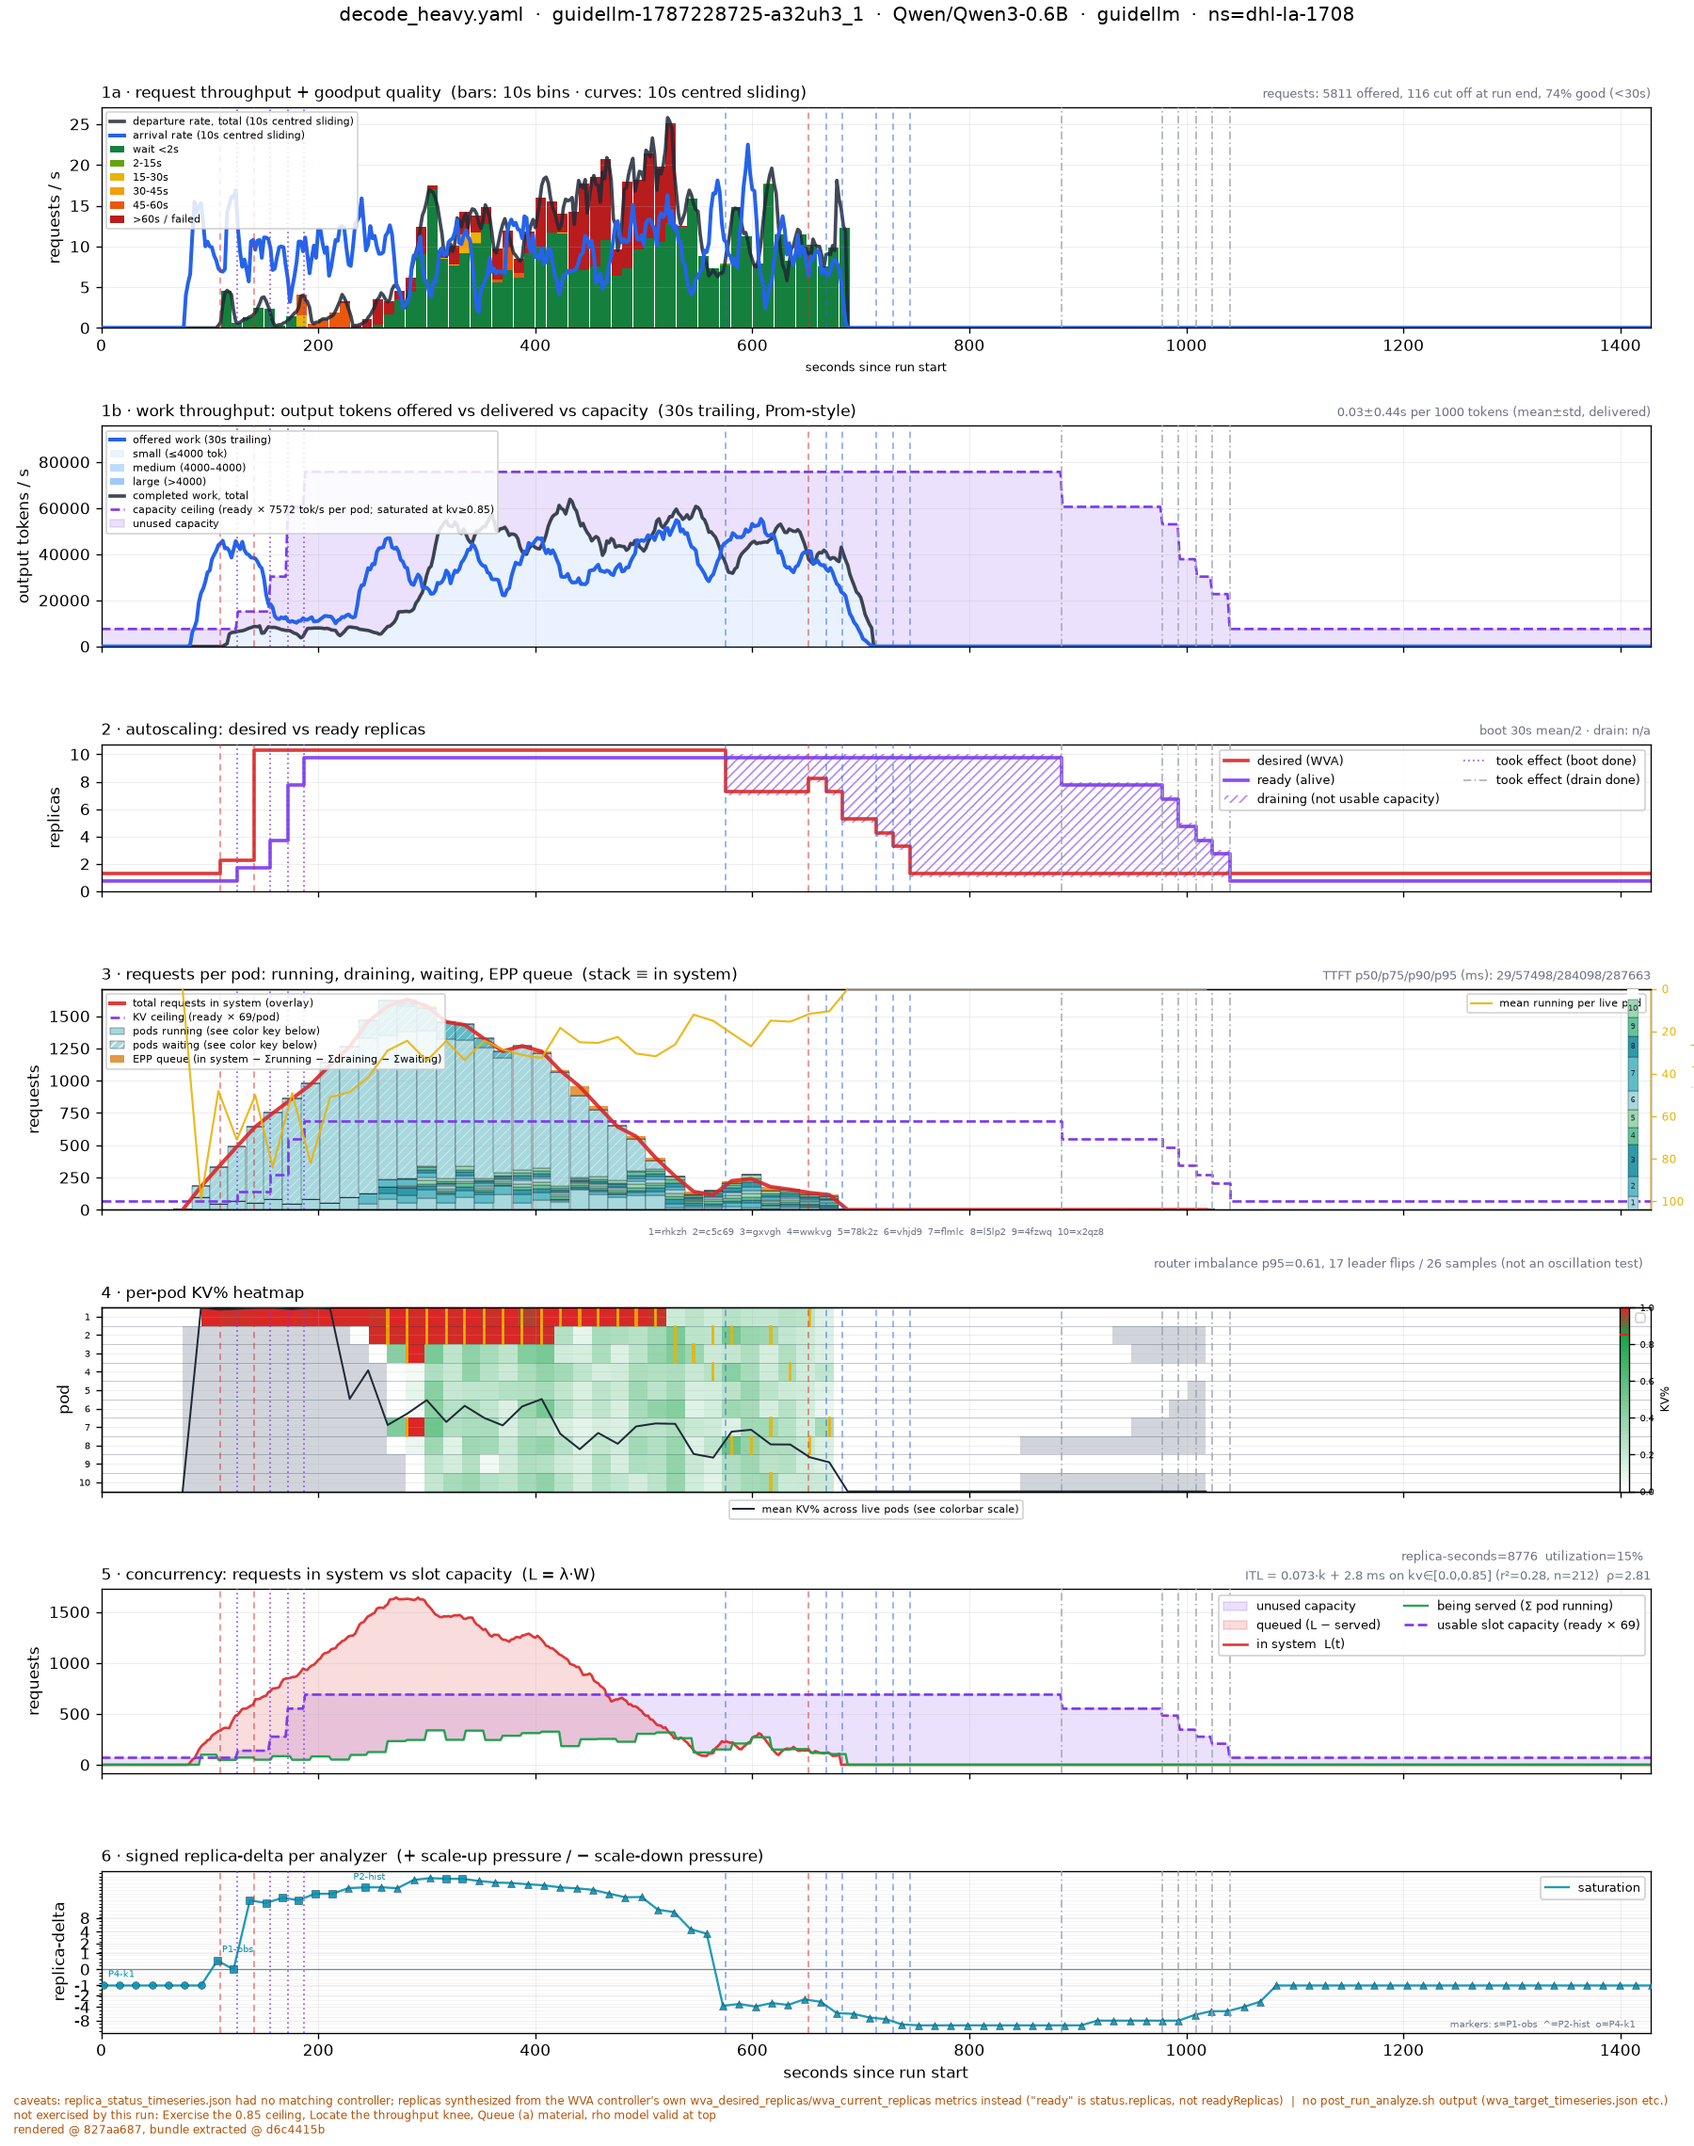
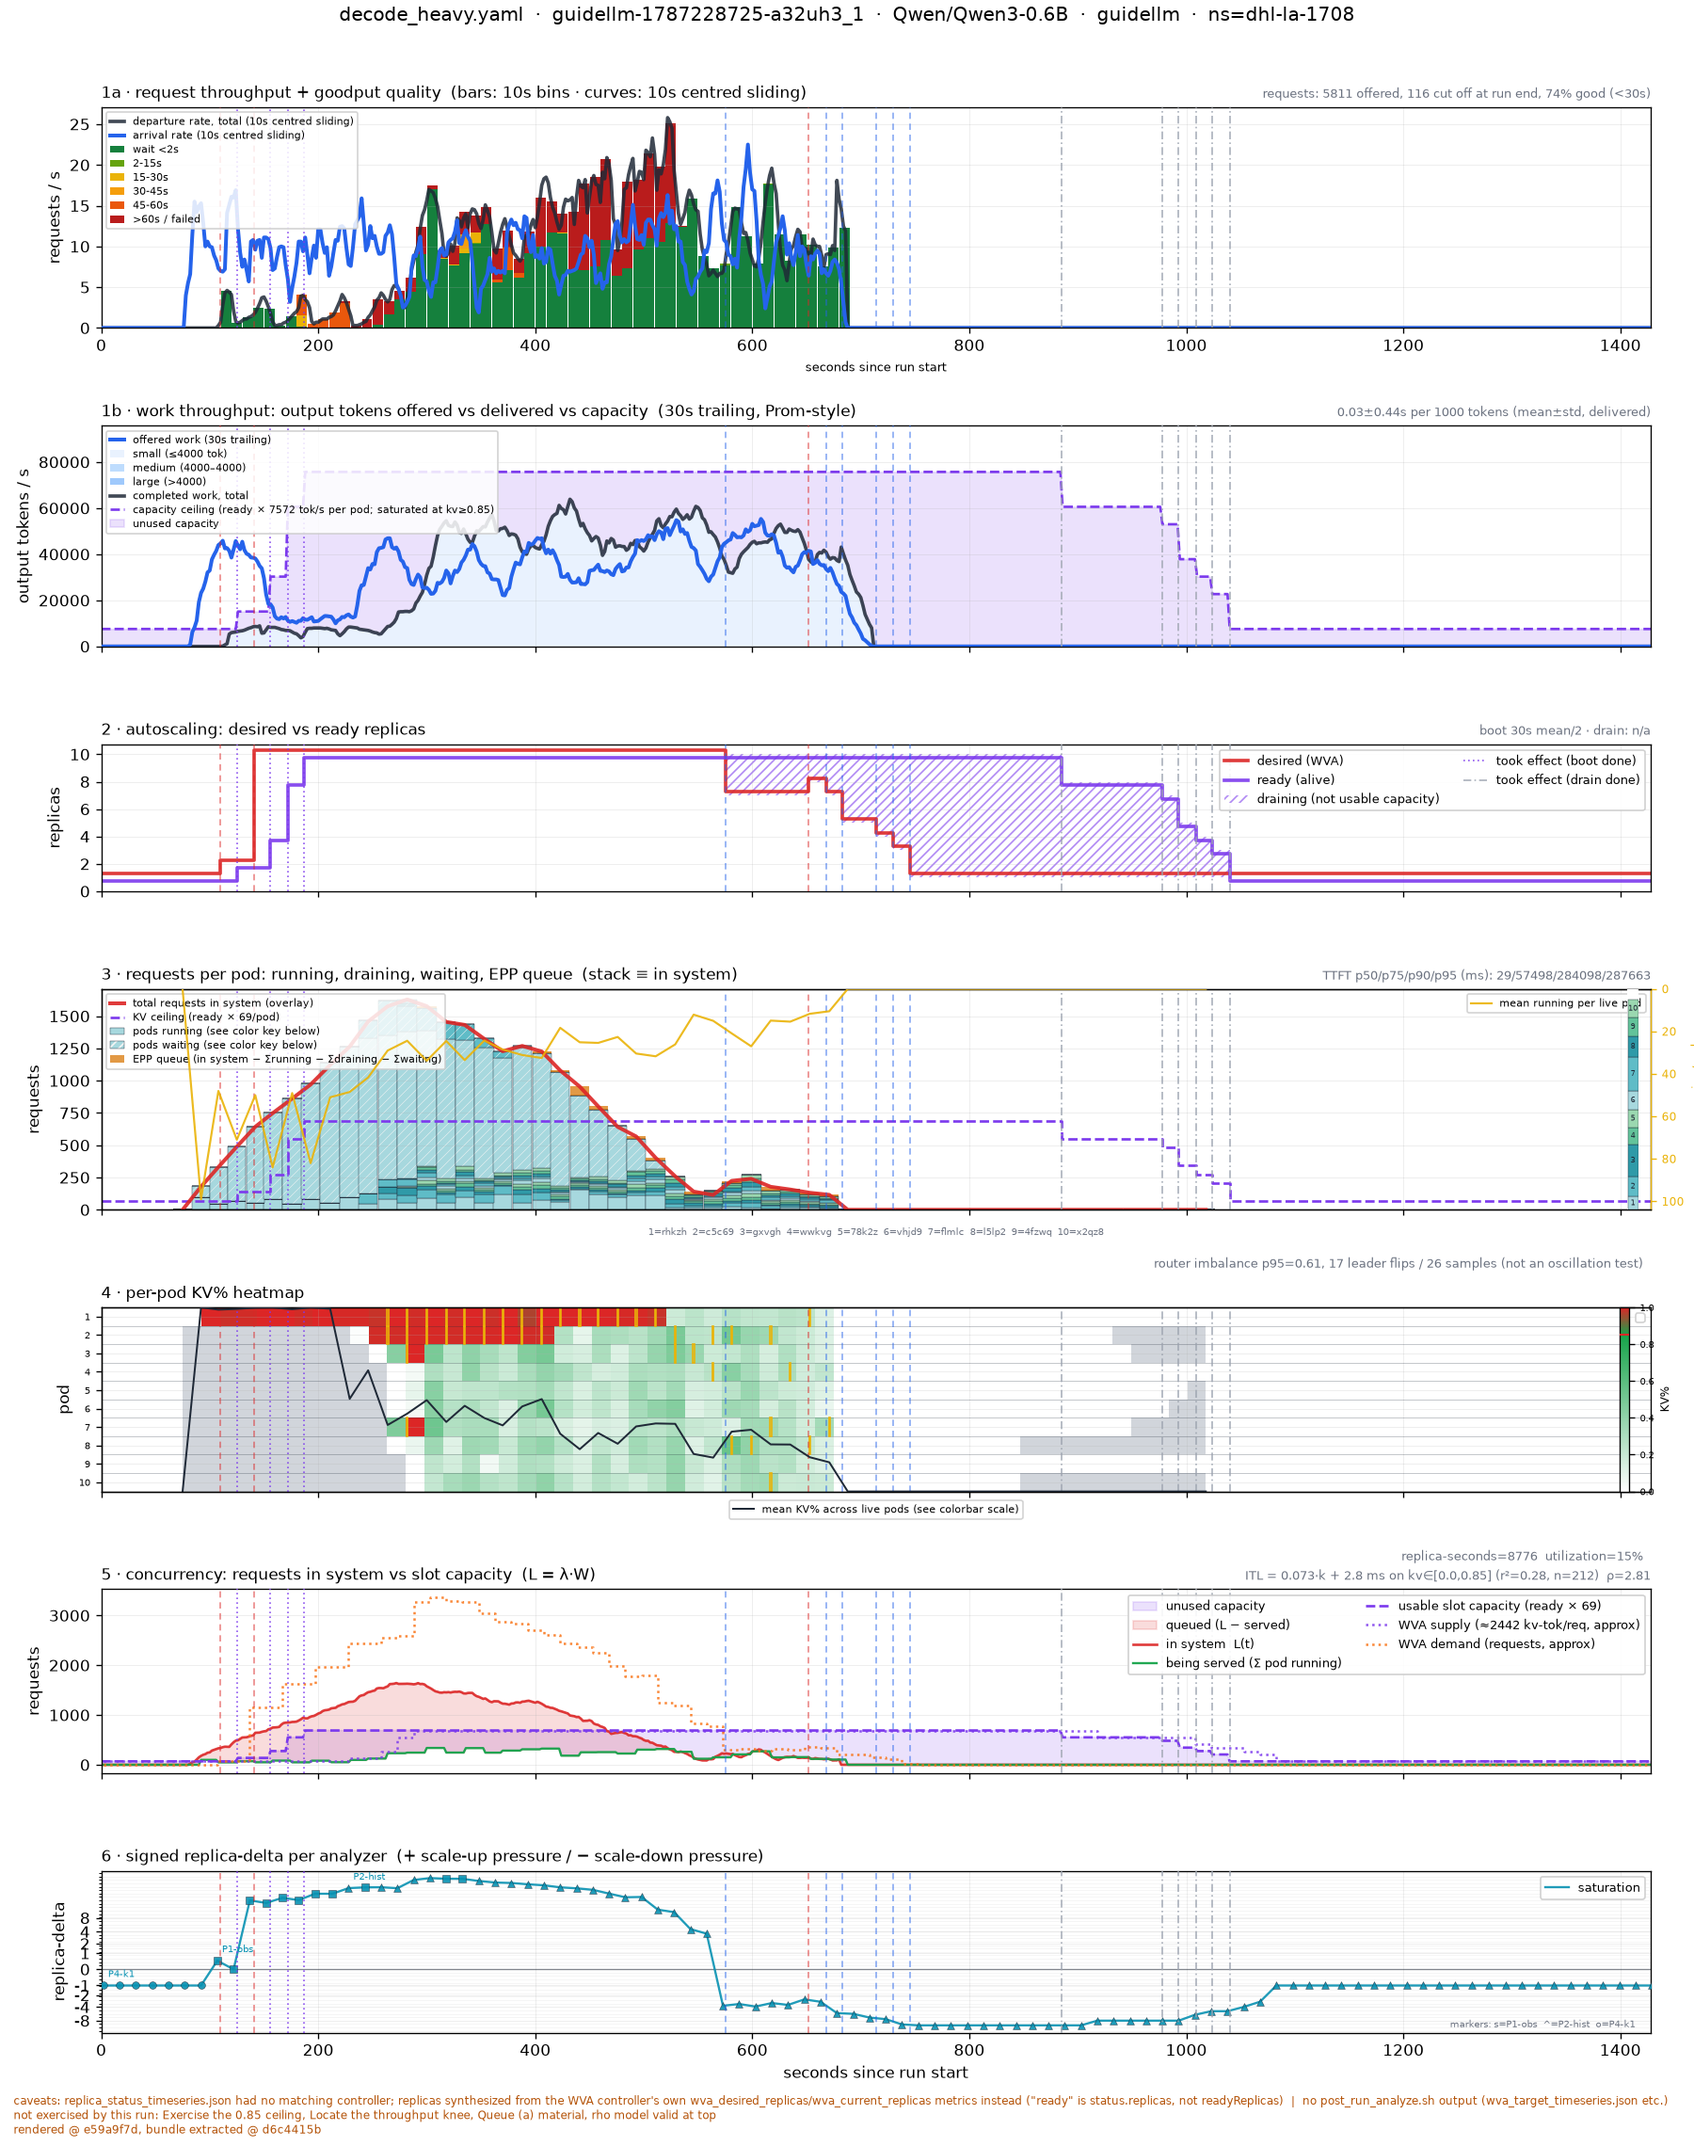
feat(benchmark): panel 5 WVA supply/demand, expressed as requests
supply/demand live in KV-cache-token units (saturation_v2/analyzer.go:
kvUsageDemand = KvCacheUsage * EffectiveCapacity), the same scale as
prc already carried on each analyzer-result record -- not tokens/sec,
not a request count on their own. No fixed tokens-per-request constant
exists to convert one to the other (it depends on each request's own
prompt+generation length), so the divisor is this run's own mean
KV-tokens actually held per running request, measured directly from
real pod samples: (kv_fraction x prc) / running_count at every sample
where a request was running. Labelled as an approximation in its own
legend entry, not presented as exact.

Validates against two independent references: on both runs checked,
"WVA supply" tracks "usable slot capacity" closely (both represent
ready-replica capacity, computed two different ways) -- and on
decode_heavy, "WVA demand" peaking above in_system's own peak (~3400
vs ~1600) lines up with the real 1->10 scale-up that run's ScaledObject
went through.

Re-published both results with the new signal.

Changed region(s): [[0.0622, 0.7474, 0.9644, 0.8408], [0.0311, 0.7474, 0.0622, 0.7785]]

diff --git a/hack/benchmark/render_real_trace.py b/hack/benchmark/render_real_trace.py
@@ -1371,6 +1371,46 @@ def render(bundle, path, title=None, coverage=None):
     if slots_g:
         f.plot(grid, slots_g, color=C_CEIL, ls='--', lw=1.6,
                label=f"usable slot capacity (ready × {cap['max_conc_pred']:.0f})")
+    # WVA's own total supply/demand, converted from KV-cache-token units
+    # into this panel's own request units. supply/demand pair with prc
+    # (per-replica capacity) in the analyzer-result records -- all three
+    # come from the same tick, in the same KV-token scale
+    # (saturation_v2/analyzer.go: kvUsageDemand = KvCacheUsage * EffectiveCapacity),
+    # not tokens/sec and not a request count on their own. There is no fixed
+    # tokens-per-request constant to divide by -- it depends on each
+    # request's own prompt+generation length -- so the divisor is this run's
+    # own mean KV-tokens actually held per running request, measured
+    # directly: (kv_fraction × prc) / running_count at every real pod
+    # sample where a request was running. An approximation labelled as one,
+    # not a fixed assumption.
+    slog_p5 = der.get('scaling_log') or {}
+    by_analyzer_p5 = slog_p5.get('by_analyzer') or {}
+    sd_lane = sorted(by_analyzer_p5)[0] if by_analyzer_p5 else None
+    sd_recs = ([r for r in by_analyzer_p5[sd_lane]
+               if r.get('supply') is not None and r.get('demand') is not None]
+              if sd_lane else [])
+    if sd_recs:
+        prc_vals = [r['prc'] for r in sd_recs if r.get('prc')]
+        prc_ref = mean(prc_vals) if prc_vals else None
+        tok_per_req_samples = []
+        if prc_ref:
+            for p in pods.values():
+                for s in p['series']:
+                    kv, run_n = s.get('kv'), s.get('run')
+                    if kv is not None and run_n and run_n > 0:
+                        tok_per_req_samples.append((kv * prc_ref) / run_n)
+        kv_tok_per_req = (mean(tok_per_req_samples)
+                          if tok_per_req_samples else None)
+        if kv_tok_per_req:
+            xs_sd = [rel(r['t'], t0) for r in sd_recs]
+            supply_req = [r['supply'] / kv_tok_per_req for r in sd_recs]
+            demand_req = [r['demand'] / kv_tok_per_req for r in sd_recs]
+            f.step(xs_sd, supply_req, where='post', color='#7c3aed', ls=':',
+                   lw=1.5, alpha=0.85, zorder=2.6,
+                   label=f'WVA supply (≈{kv_tok_per_req:.0f} kv-tok/req, approx)')
+            f.step(xs_sd, demand_req, where='post', color='#f97316', ls=':',
+                   lw=1.5, alpha=0.85, zorder=2.6,
+                   label='WVA demand (requests, approx)')
     if nsys_g or served_g:
         fit = der.get('itl_fit') or {}
         if fit.get('A_ms_per_req'):
